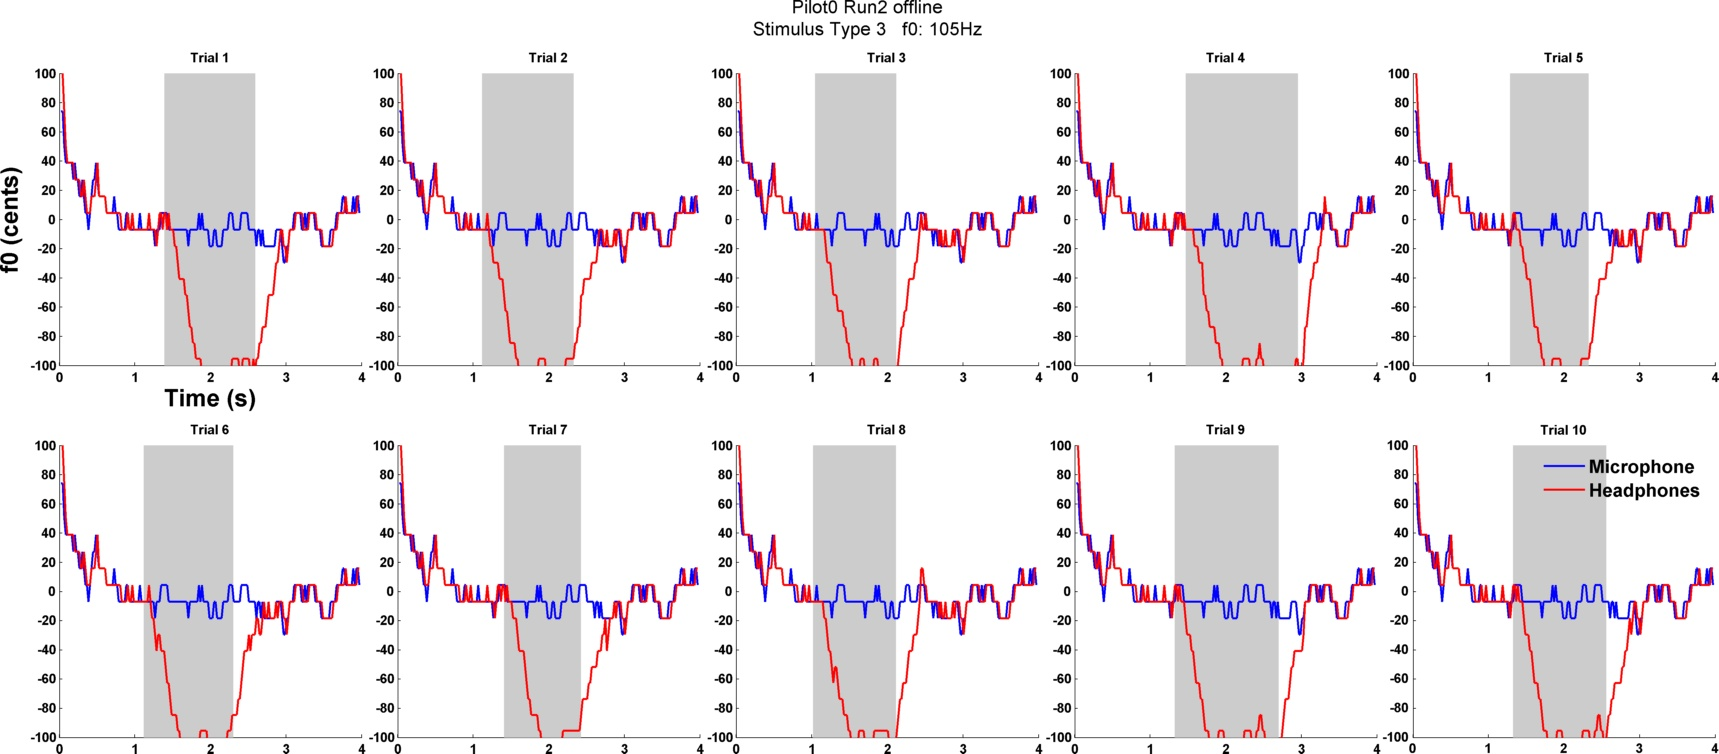
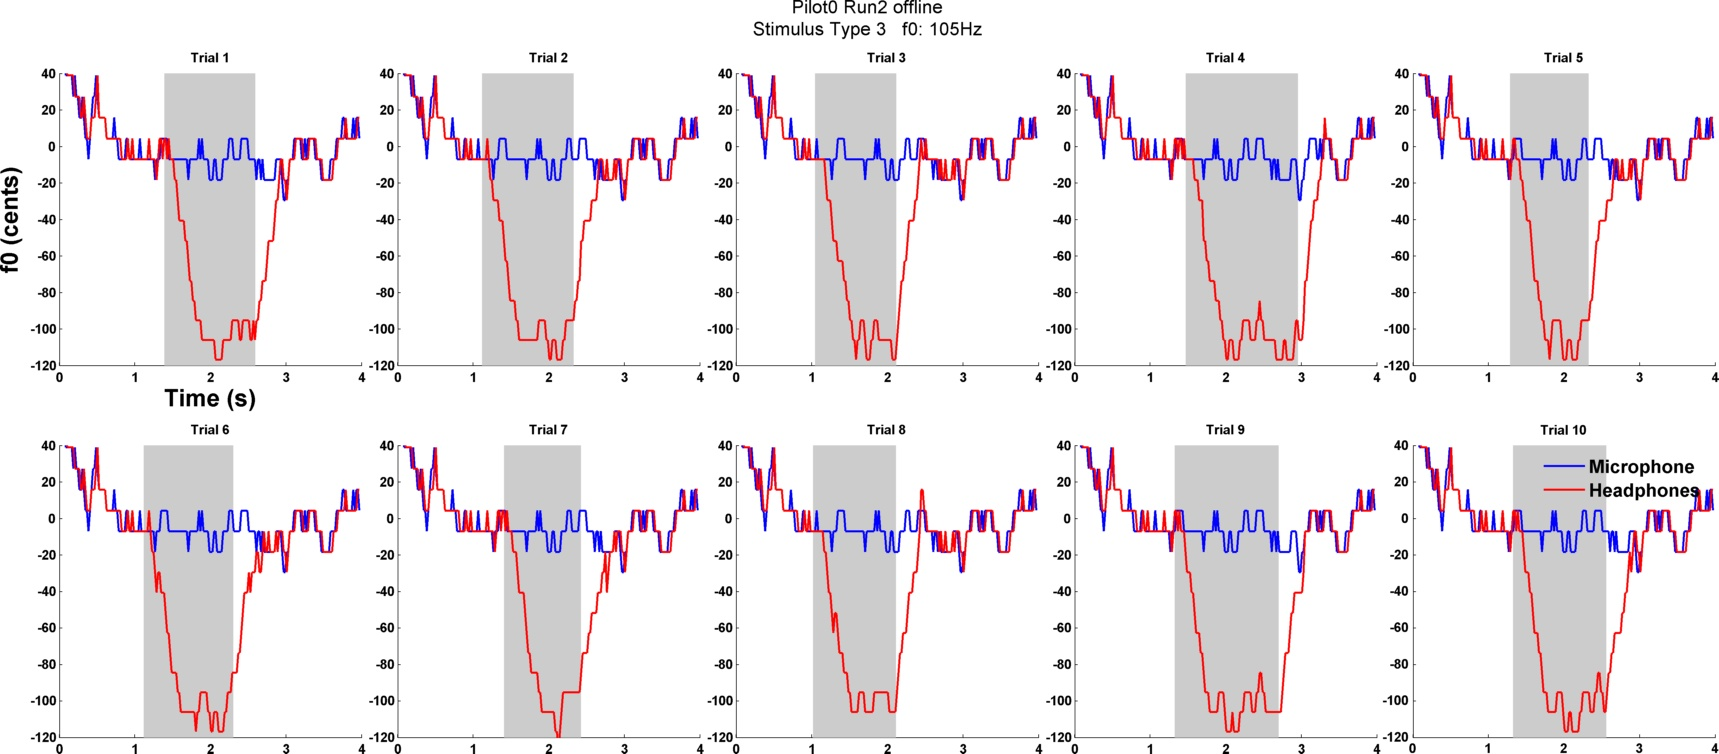
Changes to AudapterAnalysis
I made its so I could look at the sectioned analysis and plot those a
little easier.

diff --git a/Analysis/dfAnalysisAudapter.m b/Analysis/dfAnalysisAudapter.m
@@ -47,19 +47,29 @@ auAn.posEveLenQ = round(auAn.posEveLen*auAn.sRateQ);  %Amount of points of obser
 auAn.totEveLenQ = auAn.preEveLenQ + auAn.posEveLenQ; %Total length (points_NIDAQ) of observation time
 auAn.timeQ      = (0:1:(auAn.totEveLenQ-1))/auAn.sRateQ; %Time points_NIDAQ roughly center of start and stop points of analysis
 
+%For the full analysis
 auAn.winSts  = 1:auAn.tStepP:(auAn.recLenP-auAn.winLenP); %Starting indices for each analysis window
 auAn.numWin  = length(auAn.winSts); %Number of analysis windows;       
 
 auAn.anaInds(:,1) = auAn.winSts;                      %Start indice for analysis based on EvalStep
 auAn.anaInds(:,2) = auAn.winSts + auAn.winLenP - 1;   %Stop indice for analysis based on EvalStep
-auAn.time         = mean(auAn.anaInds,2)/auAn.sRate;  %Vector of time points roughly centered on start and stop points of analysis
+auAn.time         = mean(auAn.anaInds, 2)/auAn.sRate;  %Vector of time points roughly centered on start and stop points of analysis
 auAn.baseTimeInd  = auAn.time > 0.5 & auAn.time < 1.0; %The period 0.5s before perturbations
 
+%For the Sectioned analysis
+auAn.winStsSec  = 1:auAn.tStepP:(auAn.totEveLenP-auAn.winLenP); %Starting indices for each analysis window
+auAn.numWinSec  = length(auAn.winStsSec); %Number of analysis windows;       
+
+auAn.anaIndsSec(:,1) = auAn.winStsSec;                      %Start indice for analysis based on EvalStep
+auAn.anaIndsSec(:,2) = auAn.winStsSec + auAn.winLenP - 1;   %Stop indice for analysis based on EvalStep
+auAn.timeSec         = mean(auAn.anaIndsSec, 2)/auAn.sRate;  %Vector of time points roughly centered on start and stop points of analysis
 
 res.time          = auAn.time;
+res.timeSec       = auAn.timeSec;
 res.runTrialOrder = [];
-res.allTrialf0 = [];
-% res.allTrialf0_Sp = [];
+res.allTrialf0    = [];
+res.allTrialf0_St = [];
+res.allTrialf0_Sp = [];
 res.allTrialf0b   = [];
 res.allTrialForce = [];
 res.allTrialTrigs = auAn.trigsT;
@@ -85,15 +95,13 @@ for ii = 1:auAn.numTrial
     elseif saveT == 1 %Save the Trial
         fprintf('%s Trial %d saved\n', auAn.curSess, ii)
         
-        Trialf0Raw = signalFrequencyAnalysis(mic, head, auAn.trigsA(ii,1), auAn.sRate, auAn);
+        Trialf0Raw = signalFrequencyAnalysis(mic, head, auAn.sRate, auAn, [], 0);
+              
+        %Start of Pert
+        Trialf0Raw_St = signalFrequencyAnalysis(mic, head, auAn.sRate, auAn, auAn.trigsA(ii,1), 1);
+        %Stop of Pert
+        Trialf0Raw_Sp = signalFrequencyAnalysis(mic, head, auAn.sRate, auAn, auAn.trigsA(ii,2), 1); %When experiment is fixed make this 2!!
         
-        
-        
-%         %Start of Pert
-%         Trialf0Raw_St = signalFrequencyAnalysis(mic, head, auAn.trigsA(ii,1), auAn.sRate, auAn);
-%         %Stop of Pert
-%         Trialf0Raw_Sp = signalFrequencyAnalysis(mic, head, auAn.trigsA(ii,2), auAn.sRate, auAn); %When experiment is fixed make this 2!!
-%         
 %         trig = auAn.trigsT(ii,1);
 %         trigSt = trig - 0.5;
 %         trigSp = trig + 1.0; 
@@ -111,25 +119,27 @@ for ii = 1:auAn.numTrial
 
         Trialf0Norm = normf0(Trialf0Raw, f0b); %Coverted to cents and normalized
         
-%         Trialf0Norm_St = normf0(Trialf0Raw_St, f0b); %Coverted to cents and normalized
-%         Trialf0Norm_Sp = normf0(Trialf0Raw_Sp, f0b); %Coverted to cents and normalized
+        Trialf0Norm_St = normf0(Trialf0Raw_St, f0b); %Coverted to cents and normalized
+        Trialf0Norm_Sp = normf0(Trialf0Raw_Sp, f0b); %Coverted to cents and normalized
         
         TrialForce = forceSensorAnalysis(DAQin, auAn.trigsQ(ii,1), auAn.sRateQ, auAn); %At the moment only voltage
 
         res.runTrialOrder = cat(1, res.runTrialOrder, auAn.trialType(ii));
         res.allTrialf0 = cat(3, res.allTrialf0, Trialf0Norm);
-%         res.allTrialf0_Sp = cat(3, res.allTrialf0_Sp, Trialf0Norm_Sp);
+        res.allTrialf0_St = cat(3, res.allTrialf0_St, Trialf0Norm_St);
+        res.allTrialf0_Sp = cat(3, res.allTrialf0_Sp, Trialf0Norm_Sp);
         res.allTrialf0b   = cat(1, res.allTrialf0b, f0b);            %Baseline fundamental frequencies
         res.allTrialForce = cat(3, res.allTrialForce, TrialForce);   %Force sensor values;
     end
 end
 
 %Sort trials within a given run by trial type and find average across trials
-[res.meanTrialf0_St, res.meanTrialForce_St, res.trialCount] = sortTrials(res.allTrialf0, res.allTrialForce, res.runTrialOrder);
-[res.meanTrialf0_Sp, res.meanTrialForce_Sp, res.trialCount] = sortTrials(res.allTrialf0, res.allTrialForce, res.runTrialOrder);
+[res.meanTrialf0_St, res.meanTrialForce_St, res.trialCount] = sortTrials(res.allTrialf0_St, res.allTrialForce, res.runTrialOrder);
+[res.meanTrialf0_Sp, res.meanTrialForce_Sp, res.trialCount] = sortTrials(res.allTrialf0_Sp, res.allTrialForce, res.runTrialOrder);
 res.meanTrialf0b = round(mean(res.allTrialf0b,1));
 
-res.f0Limits         = [0 auAn.recLen -100 100];
+res.f0Limits         = [0 auAn.recLen -120 40];
+res.f0LimitsSec      = [0 auAn.totEveLen -120 40];
 res.InflaRespLimits  = [0 0.3 -80 10];
 res.ForceLimits      = [0 auAn.totEveLen 1 3.5];
 res.PressureLimits   = [0 auAn.totEveLen 20 30];
@@ -245,7 +255,7 @@ f0 = f(ind);
 
 end
 
-function Trialf0ResultsRaw = signalFrequencyAnalysis(mic, head, trig, fs, auAn)
+function Trialf0ResultsRaw = signalFrequencyAnalysis(mic, head, fs, auAn, trig, block)
 %Finds the change in fundamental frequency of windowed signal
 
 %Inputs
@@ -262,24 +272,32 @@ function Trialf0ResultsRaw = signalFrequencyAnalysis(mic, head, trig, fs, auAn)
 %third column is the fundamental frequency of the windowed headphone
 %signal.
 
-% St = trig - auAn.preEveLenP; 
-% Sp = trig + auAn.posEveLenP - 1;
-% 
-% %Grab a big chuck of the signal centered around the event
-% try
-%     mic = mic(St:Sp);
-%     head = head(St:Sp);
-% catch
-%     disp('Sp was too long yo!')
-%     numSamp = length(mic);
-%     mic = mic(St:numSamp);
-%     head = head(St:numSamp);
-% end   
+St = trig - auAn.preEveLenP; 
+Sp = trig + auAn.posEveLenP - 1;
+
+%Grab a big chuck of the signal centered around the event
+if block == 1
+    try
+        mic = mic(St:Sp);
+        head = head(St:Sp);
+    catch
+        disp('Sp was too long yo!')
+        numSamp = length(mic);
+        mic = mic(St:numSamp);
+        head = head(St:numSamp);
+    end
+    
+    numWin  = auAn.numWinSec;
+    anaInds = auAn.anaIndsSec;
+else
+    numWin  = auAn.numWin;
+    anaInds = auAn.anaInds;    
+end
 
 Trialf0ResultsRaw = [];
-for ii = 1:auAn.numWin
-    startPt  = auAn.anaInds(ii,1);
-    stopPt   = auAn.anaInds(ii,2);
+for ii = 1:numWin
+    startPt  = anaInds(ii,1);
+    stopPt   = anaInds(ii,2);
 
     mic_win   = mic(startPt:stopPt);
     head_win  = head(startPt:stopPt);
@@ -288,8 +306,6 @@ for ii = 1:auAn.numWin
     f0_H = calcf0(head_win,fs);
     
 %     [f0_time, f0_value, SHR, f0_candidates] = shrp(mic_win, fs);
-
-    
     if f0_M < 50 || f0_M > 300
         fprintf('I calculated a f0 of %d. Replacing it.\n', f0_M)
         f0_M = 0; %Trialf0ResultsRaw(ii-1,2);

diff --git a/Analysis/OfflineAudapterPlay.m b/Analysis/OfflineAudapterPlay.m
@@ -7,7 +7,7 @@ if isempty(varargin)
 else
 end
 
-collectNewData         = 1; %Boolean
+collectNewData         = 0; %Boolean
 sv2F                   = 1; %Boolean
 
 %Experiment Configurations
@@ -15,7 +15,7 @@ expParam.project       = 'Dissociating-Role-of-Feedback-in-Voice-Motor-Control';
 expParam.expType       = 'Auditory Perturbation_Perceptual';
 expParam.subject       = 'Pilot0'; %Subject#, Pilot#, null
 expParam.run           = 'Run2';
-expParam.stimType      = 3; %1 for stamped, %2 for sinusoid %3 for linear
+expParam.stimType      = 2; %1 for stamped, %2 for sinusoid %3 for linear
 expParam.curRec        = ['Stimulus Type ' num2str(expParam.stimType)];
 expParam.curSess       = [expParam.subject ' ' expParam.run ' offline'];
 expParam.numTrial      = 10; %Experimental trials = 40
@@ -37,7 +37,7 @@ dirs.RecWaveDir  = fullfile(dirs.RecFileDir, 'wavFiles');
 
 dirs.SavFileDir    = fullfile(dirs.SavData, expParam.subject, expParam.run);
 dirs.SavResultsDir = fullfile(dirs.Results, expParam.subject, 'offline');
-dirs.saveFileSuffix = '_offlinePSR2';
+dirs.saveFileSuffix = '_offlinePSR';
 
 if exist(dirs.RecFileDir, 'dir') == 0
     mkdir(dirs.RecFileDir)
@@ -161,5 +161,5 @@ close all
 
 drawAudResp_allTrial(res, auAn.curSess, OA.expParam.curRec, dirs.SavResultsDir)
 
-% drawInterTrialAudResp(res.time, res.meanTrialf0_St, res.meanTrialf0_Sp, res.f0Limits, res.trialCount, res.meanTrialf0b, auAn.curExp, 'offline_Stim1', dirs.SavResultsDir)
+drawInterTrialAudResp(res.timeSec, res.meanTrialf0_St, res.meanTrialf0_Sp, res.f0LimitsSec, res.trialCount, res.meanTrialf0b, auAn.curSess, OA.expParam.curRec, dirs.SavResultsDir)
 end

diff --git a/Analysis/drawInterTrialAudResp.m b/Analysis/drawInterTrialAudResp.m
@@ -1,11 +1,11 @@
-function drawInterTrialAudResp(time, meanTrialf0_St, meanTrialf0_Sp, limits, counts, meanTrialf0b, curExp, curRecording, plotFolder)
+function drawInterTrialAudResp(time, meanTrialf0_St, meanTrialf0_Sp, limits, counts, meanTrialf0b, curSess, curRec, plotFolder)
 plotpos = [200 100];
 plotdim = [1300 500];
 InterTrialAudResp = figure('Color', [1 1 1]);
 set(InterTrialAudResp, 'Position',[plotpos plotdim],'PaperPositionMode','auto')
 
-curExp(strfind(curExp, '_')) = ' ';
-curRecording(strfind(curRecording, '_')) = ' ';
+curSess(strfind(curSess, '_')) = ' ';
+curRec(strfind(curRec, '_')) = ' ';
 
 dottedStartx = [0.5 0.5];
 dottedy      = [-300 300];
@@ -45,11 +45,11 @@ set(gca,'XTickLabel', {'-0.5' '0' '0.5' '1.0'},...
         'FontWeight','bold',...
         'YAxisLocation', 'right');
 
-suptitle({[curExp ': ' num2str(counts) ' Perturbed Trials']; [curRecording '   f0: ' num2str(meanTrialf0b) 'Hz']})
+suptitle({[curSess ': ' num2str(counts) ' Perturbed Trials']; [curRec '   f0: ' num2str(meanTrialf0b) 'Hz']})
 
 plots = {'InterTrialf0_AudResp'};
 for i = 1:length(plots)
-    plTitle = [curRecording '_' plots{i} '.jpg'];
+    plTitle = [curSess '_' plots{i} '_' curRec '.jpg'];
 
     saveFileName = fullfile(plotFolder, plTitle);
     export_fig(saveFileName)
